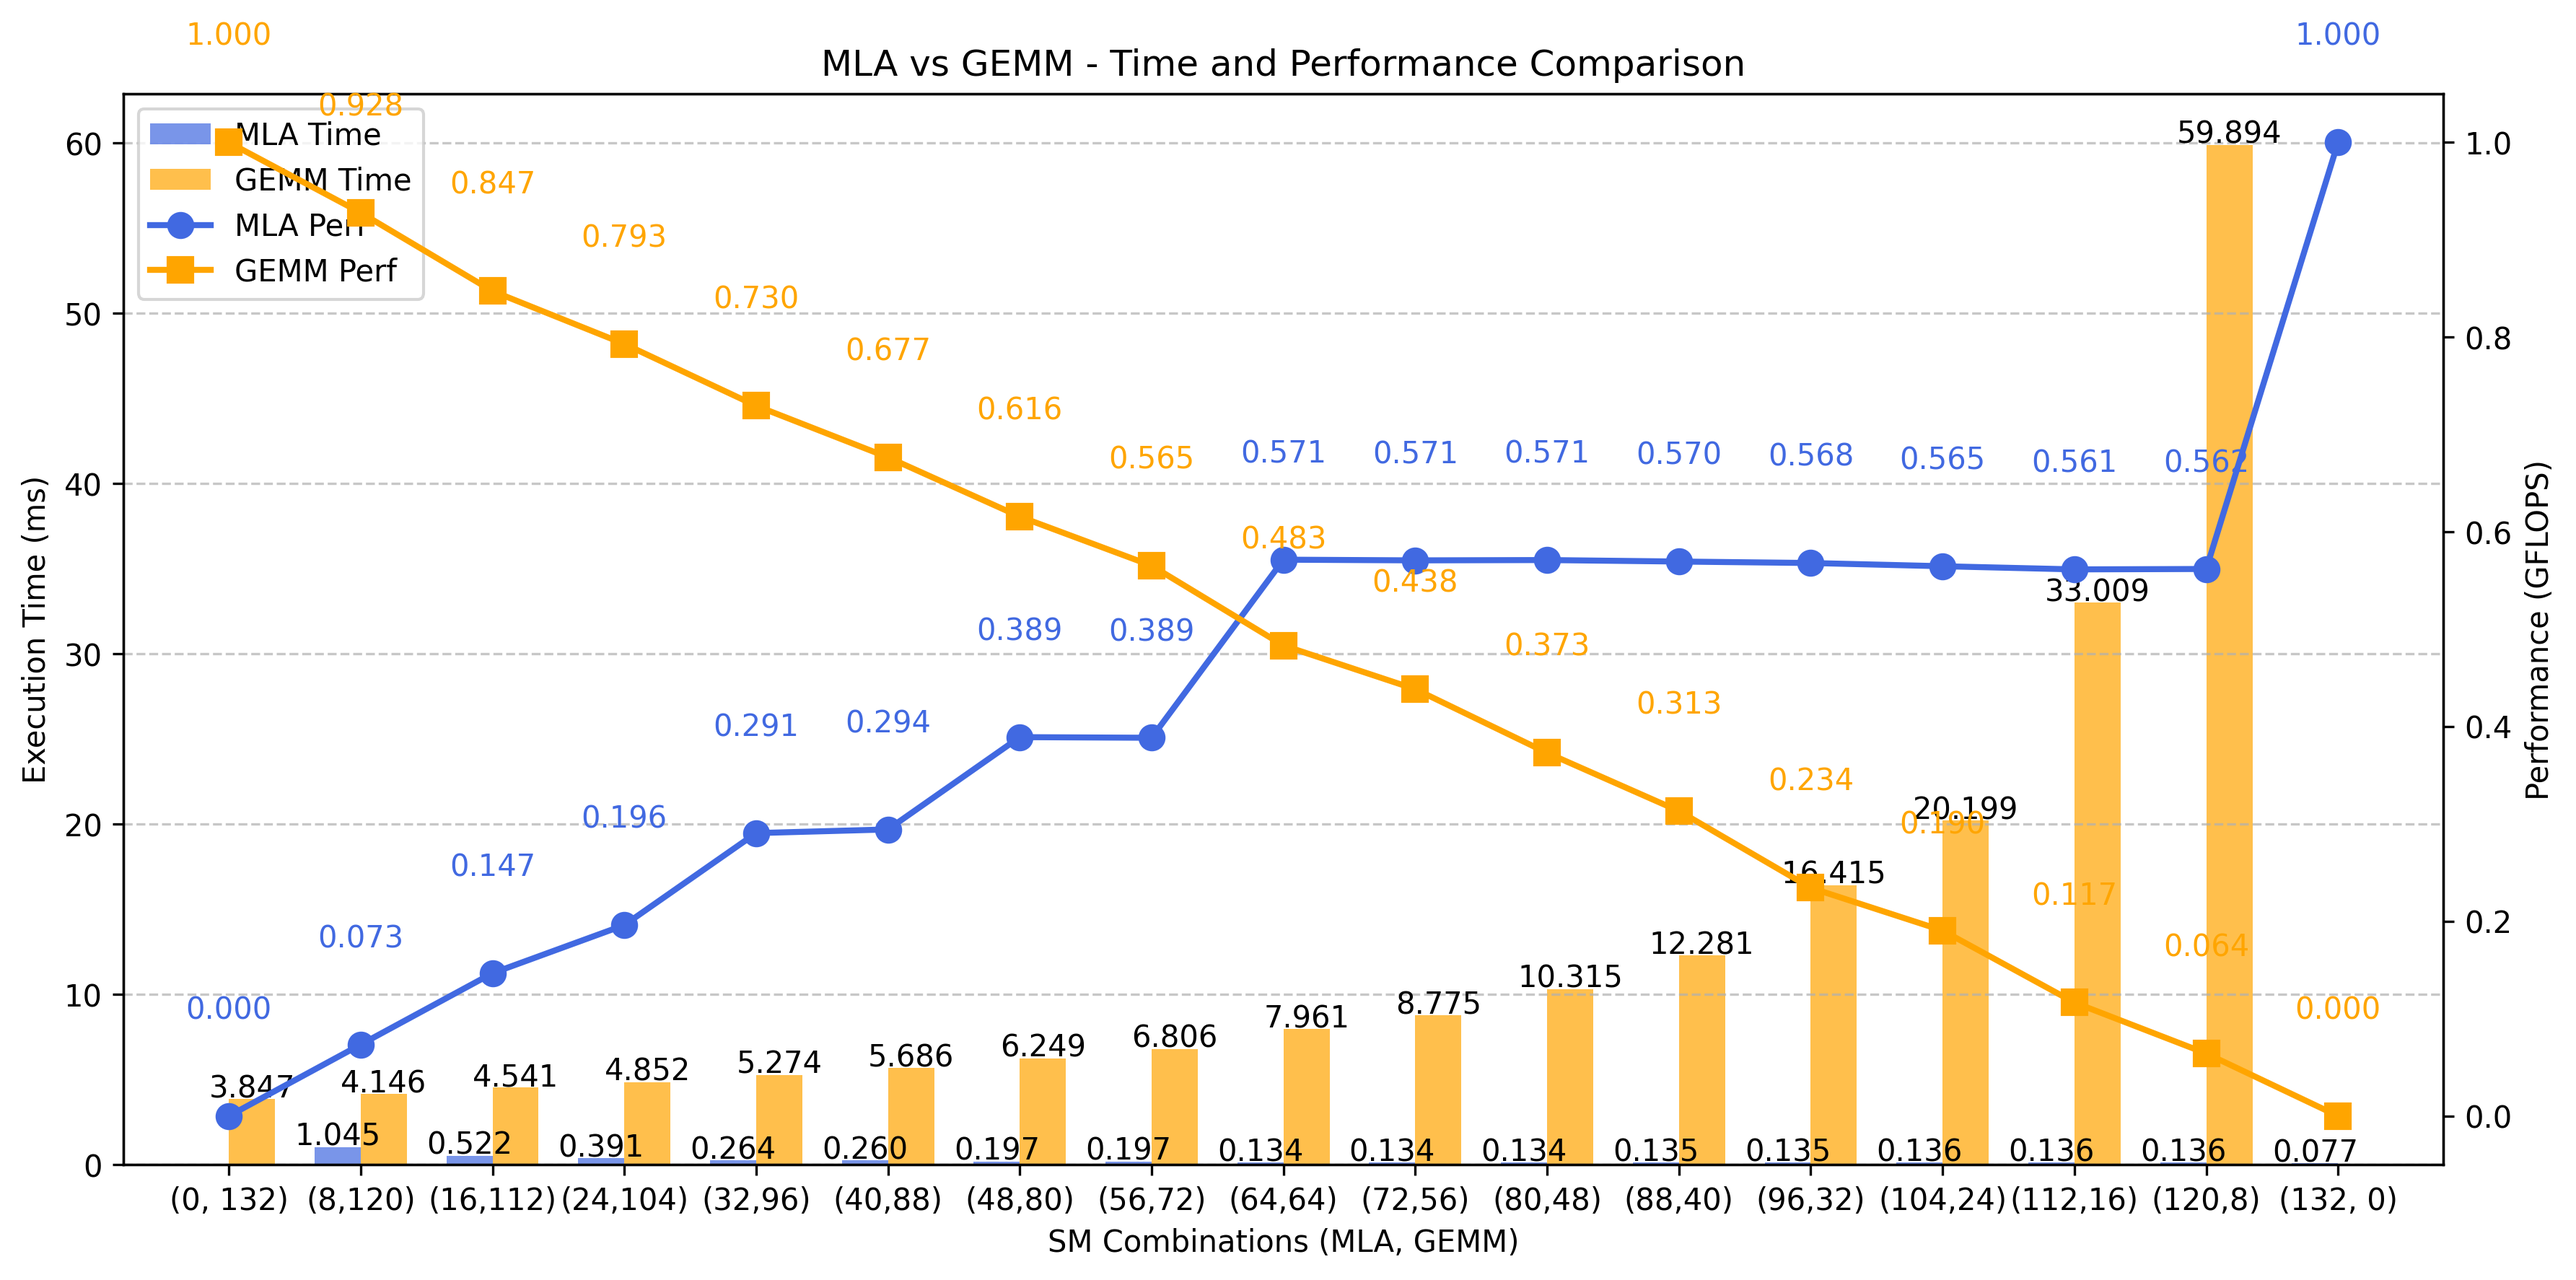
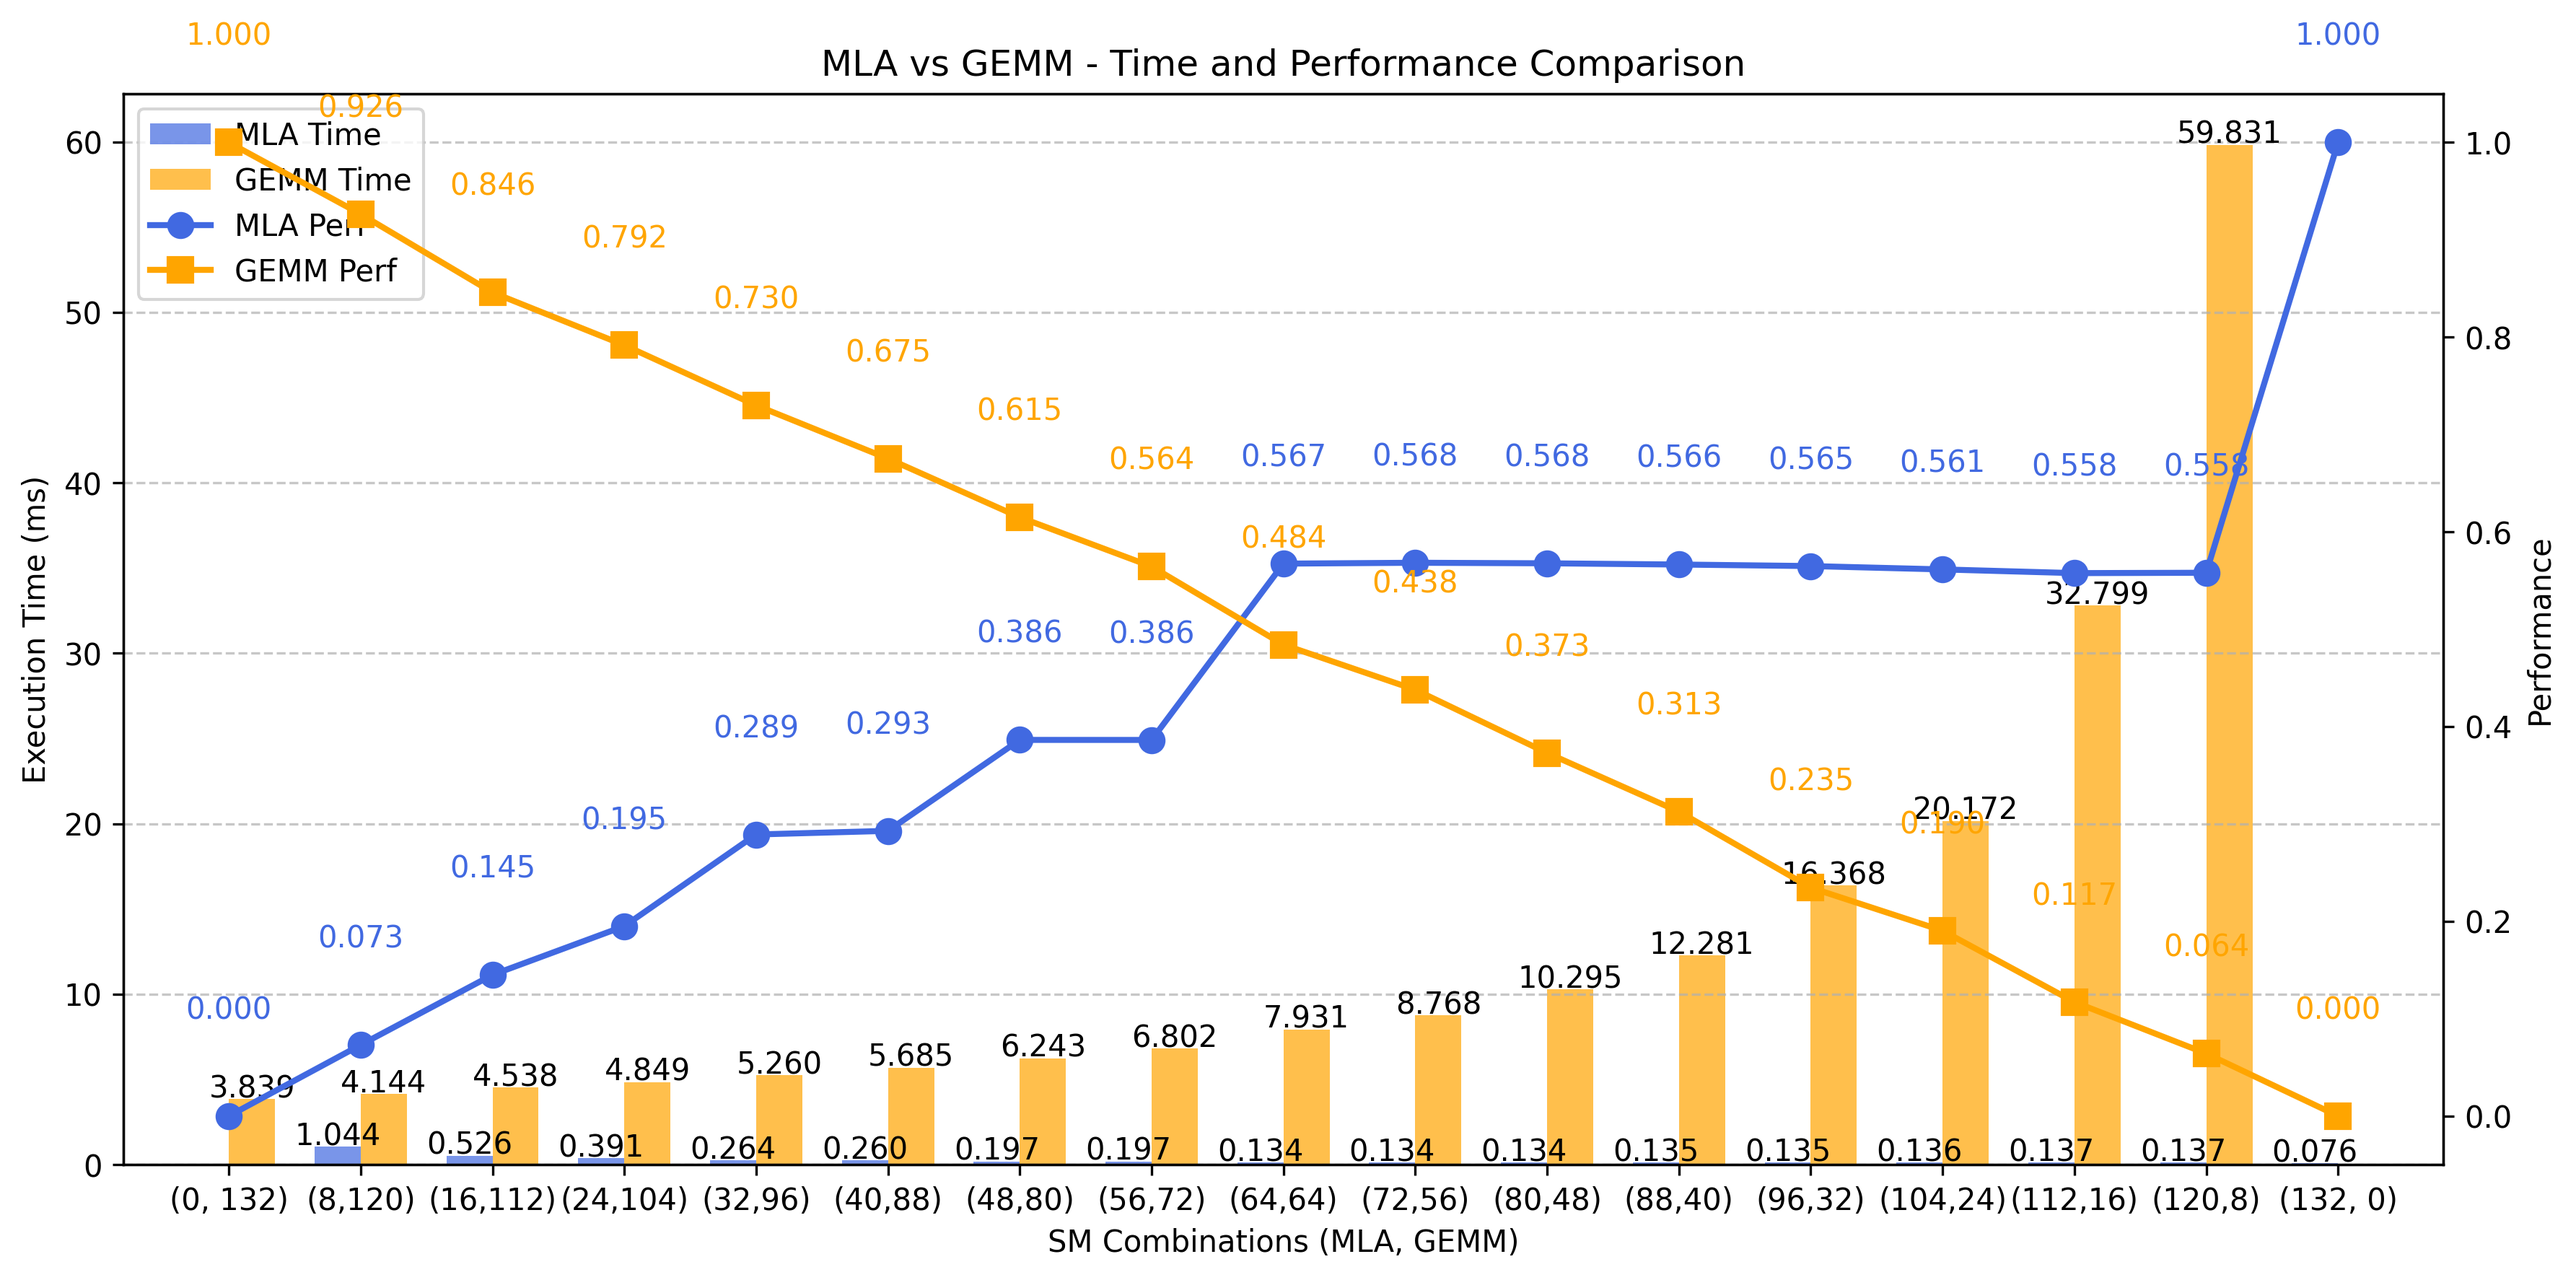
update image

diff --git a/green_ctx_test/test_utils.py b/green_ctx_test/test_utils.py
@@ -285,7 +285,7 @@ def plt_draw2(
         linewidth=2,
         markersize=8,
     )
-    ax2.set_ylabel("Performance (GFLOPS)", color="black")
+    ax2.set_ylabel("Performance", color="black")
     ax2.tick_params(axis="y", labelcolor="black")
 
     for i in range(len(sms_labels)):
